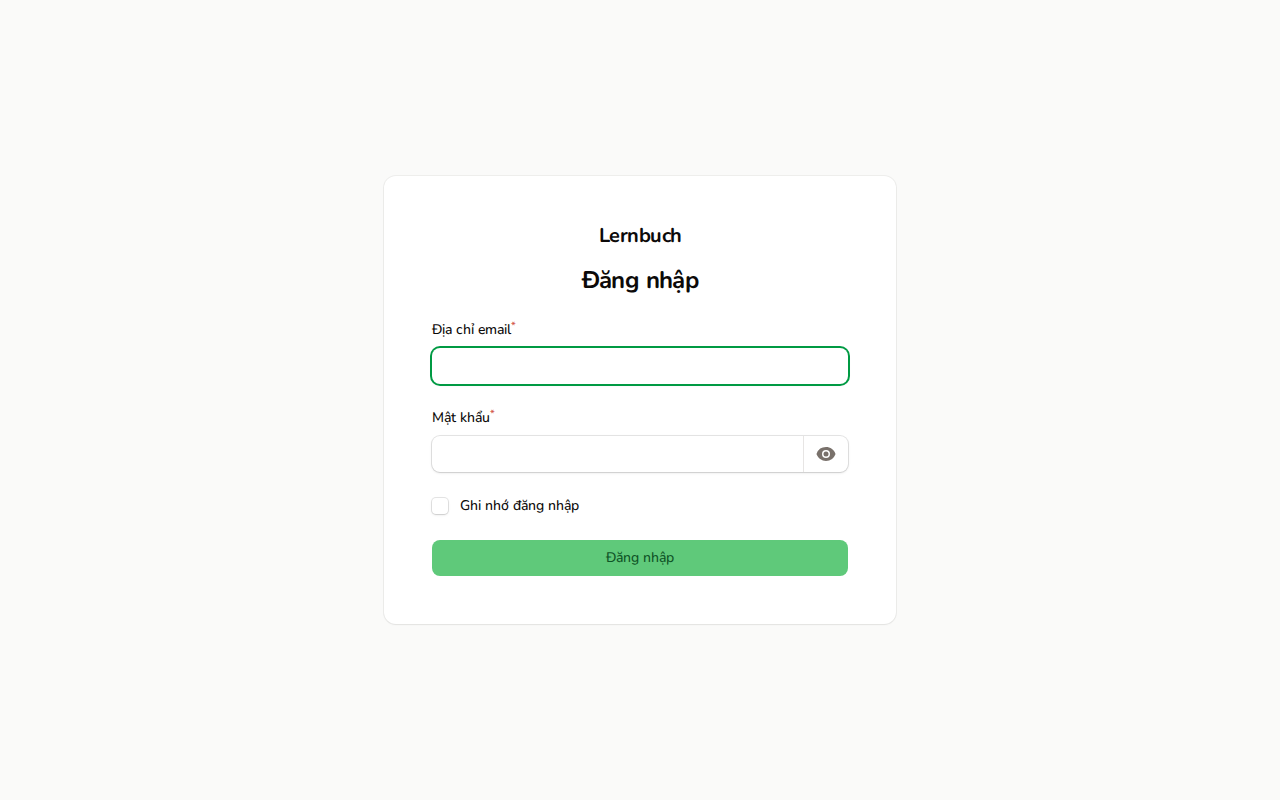
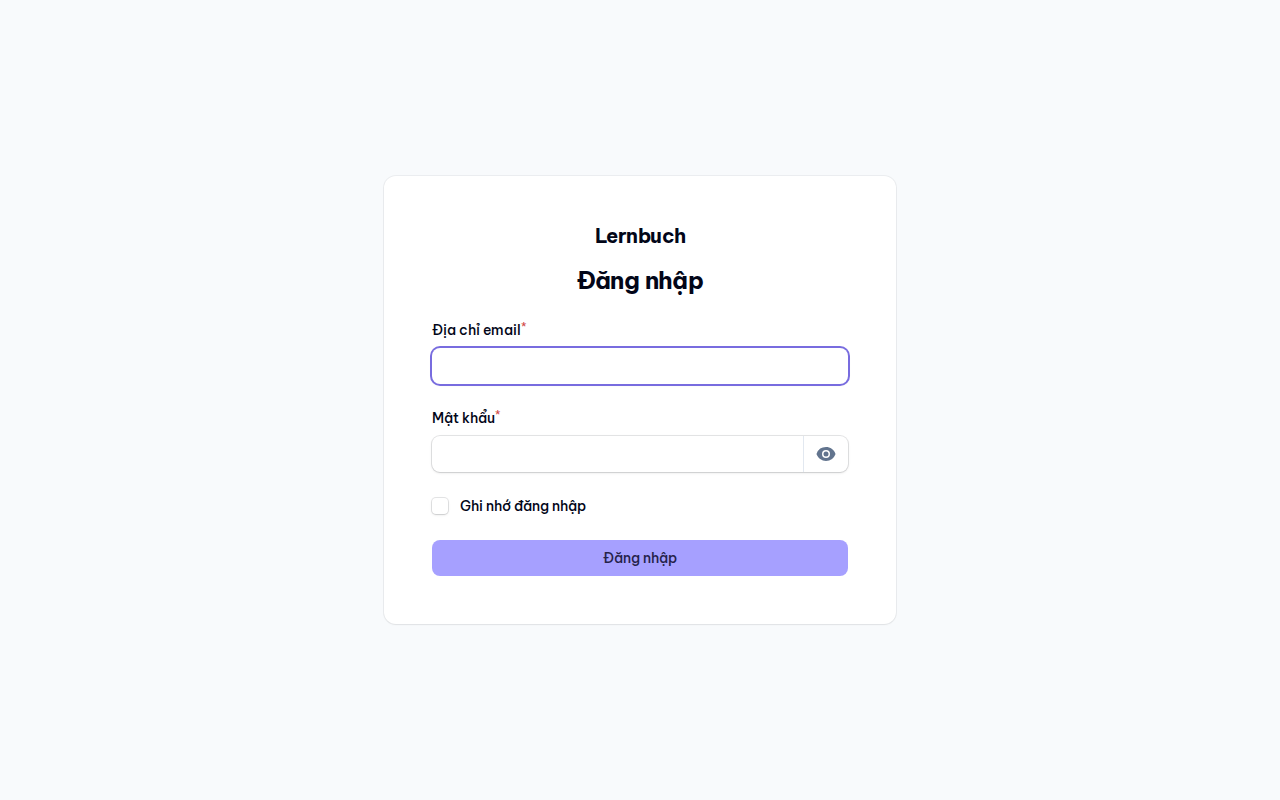
Báo cáo G0 cập nhật sau khi deploy: 14 đạt, 1 đạt một phần, 1 chưa chạy
- docs/tu-kiem-g0.json chấm lại từ log thật: mục 8, 9 (thử hỏng cố ý), 13 (9/10 nhịp trên alwaysdata), 16 (345 MB = 34% của 1 GB sau 10 lần deploy)
- Còn mục 7 (đăng nhập /admin trên alwaysdata) và mục 10 (chạy workflow rollback) chờ bạn
- Ảnh trang chào, trang đăng nhập quản trị theo giao diện mới
- lay_runs.py thử lại khi gh lỗi tạm (kèm test)

Claude-Session: https://claude.ai/code/session_01MLsQeYrmmLGMqsTDmbSgby

diff --git a/tools/tu-kiem/test_lay_runs.py b/tools/tu-kiem/test_lay_runs.py
@@ -1,0 +1,63 @@
+"""Test lay_runs.py với gh giả: lỗi tạm thì thử lại, lỗi mãi thì báo rõ, ghi đúng dạng JSON cho tu_kiem.py.
+
+Chạy: python3 -m unittest tools/tu-kiem/test_lay_runs.py
+"""
+import contextlib
+import io
+import json
+import subprocess
+import sys
+import tempfile
+import unittest
+from pathlib import Path
+from unittest import mock
+
+sys.path.insert(0, str(Path(__file__).parent))
+import lay_runs  # noqa: E402
+
+
+def done(code, out='', err=''):
+    return subprocess.CompletedProcess(['gh'], code, out, err)
+
+
+class LayRunsTest(unittest.TestCase):
+    def test_gh_loi_tam_thi_thu_lai(self):
+        with mock.patch.object(lay_runs.subprocess, 'run', side_effect=[done(1, err='HTTP 502'), done(1, err='HTTP 502'), done(0, '{"jobs": []}')]) as run, \
+                mock.patch.object(lay_runs.time, 'sleep') as sleep:
+            self.assertEqual(lay_runs.gh_json(['run', 'view', '1', '--json', 'jobs']), {'jobs': []})
+        self.assertEqual(run.call_count, 3)
+        self.assertEqual(sleep.call_count, 2)
+
+    def test_gh_loi_mai_thi_bao_ro(self):
+        with mock.patch.object(lay_runs.subprocess, 'run', return_value=done(1, err='HTTP 404: Not Found')), \
+                mock.patch.object(lay_runs.time, 'sleep'):
+            with self.assertRaises(RuntimeError) as ctx:
+                lay_runs.gh_json(['run', 'view', '9', '--json', 'jobs'])
+        self.assertIn('lỗi sau 3 lần thử', str(ctx.exception))
+        self.assertIn('HTTP 404', str(ctx.exception))
+
+    def test_ghi_json_bo_qua_lan_dang_chay(self):
+        runs = [
+            {'databaseId': 2, 'workflowName': 'ci', 'headBranch': 'main', 'headSha': 'b' * 40, 'displayTitle': 'đang chạy',
+             'event': 'push', 'status': 'in_progress', 'conclusion': '', 'createdAt': '2026-11-27T01:00:00Z'},
+            {'databaseId': 1, 'workflowName': 'ci', 'headBranch': 'main', 'headSha': 'a' * 40, 'displayTitle': 'xong',
+             'event': 'push', 'status': 'completed', 'conclusion': 'success', 'createdAt': '2026-11-27T00:00:00Z'},
+        ]
+        jobs = {'jobs': [{'name': 'deploy lên lernbuch.alwaysdata.net', 'conclusion': 'success',
+                          'startedAt': '2026-11-27T00:01:00Z', 'completedAt': '2026-11-27T00:03:00Z'}]}
+
+        def fake(args, tries=3):
+            return runs if args[:2] == ['run', 'list'] else jobs
+
+        with tempfile.TemporaryDirectory() as d, mock.patch.object(lay_runs, 'gh_json', side_effect=fake), \
+                contextlib.redirect_stderr(io.StringIO()):
+            out = Path(d, 'runs.json')
+            lay_runs.main(['--out', str(out)])
+            data = json.loads(out.read_text(encoding='utf-8'))
+        self.assertEqual([r['id'] for r in data], [1])
+        self.assertEqual(data[0]['jobs'][0], {'name': 'deploy lên lernbuch.alwaysdata.net', 'conclusion': 'success',
+                                              'started': '2026-11-27T00:01:00Z', 'completed': '2026-11-27T00:03:00Z'})
+
+
+if __name__ == '__main__':
+    unittest.main()

diff --git a/tools/tu-kiem/lay_runs.py b/tools/tu-kiem/lay_runs.py
@@ -7,13 +7,20 @@ import argparse
 import json
 import subprocess
 import sys
+import time
 
 FIELDS = 'databaseId,workflowName,headBranch,headSha,displayTitle,event,status,conclusion,createdAt'
 
 
-def gh_json(args):
-    out = subprocess.run(['gh', *args], check=True, capture_output=True, text=True).stdout
-    return json.loads(out)
+def gh_json(args, tries=3):
+    """Gọi gh, lỗi tạm (mạng, giới hạn API) thì thử lại vài lần trước khi dừng."""
+    for i in range(tries):
+        r = subprocess.run(['gh', *args], capture_output=True, text=True)
+        if r.returncode == 0:
+            return json.loads(r.stdout)
+        if i < tries - 1:
+            time.sleep(2 * (i + 1))
+    raise RuntimeError(f'gh {" ".join(args)} lỗi sau {tries} lần thử: {r.stderr.strip()[:300]}')
 
 
 def main(argv=None):

diff --git a/docs/bao-cao-g0.md b/docs/bao-cao-g0.md
@@ -1,12 +1,12 @@
 # Báo cáo G0: Nền móng (Lernbuch Online)
 
-Ngày 26/11/2026. Kết quả chi tiết từng mục: `docs/tu-kiem-g0.json` (chấm lại bằng `tools/tu-kiem/tu_kiem.py`, cách chạy trong README).
+Ngày 26/11/2026, cập nhật 27/11/2026 sau khi deploy và thử hỏng cố ý trên alwaysdata. Kết quả chi tiết từng mục: `docs/tu-kiem-g0.json` (chấm lại bằng `tools/tu-kiem/tu_kiem.py`, cách chạy trong README). Công cụ đọc log CI và log máy chủ của từng lần deploy, quay lại trong nhánh `ci-results`; phần đo tay trên máy chủ ghi ở `docs/tu-kiem-g0-tay.json`.
 
 ## Tóm tắt
 
-- Xong mọi phần làm được mà không cần tài khoản alwaysdata: repo, CI, 91 bảng thành migration, chạy trên Windows bằng `setup\*.bat`, PRODUCT.md và DESIGN.md bản 1, 4 màn hình app học chạy được với dữ liệu mẫu.
-- Tự kiểm 16 mục: **10 đạt, 2 đạt một phần, 4 chưa chạy, 0 hỏng**. Bốn mục chưa chạy (7–10) và phần còn lại của mục 13, 16 đều chờ bật deploy lên alwaysdata.
-- Lần chạy CI cuối trên code này: php 15/15 bước (32 test Pest), web 7/7 bước (103 test Vitest, 60 test Playwright), nightly đạt trên MariaDB 10.11, 11.4, 11.8 và MySQL 8.4, 9.7, workflow windows đạt.
+- Xong: repo, CI, 91 bảng thành migration, chạy trên Windows bằng `setup\*.bat`, PRODUCT.md, DESIGN.md, 4 màn hình app học chạy được với dữ liệu mẫu, deploy tự động lên https://lernbuch.alwaysdata.net (tự dừng khi migration hỏng, tự quay lại khi bản mới lỗi).
+- Tự kiểm 16 mục: **14 đạt, 1 đạt một phần, 1 chưa chạy, 0 hỏng**. Còn hai việc cần bạn: đăng nhập `/admin` trên alwaysdata (mục 7) và chạy workflow rollback (mục 10).
+- Lần chạy CI cuối (commit `e33c96d`): php 16/16 bước (37 test Pest), web 8/8 bước (101 test Vitest, 60 test Playwright), deploy đạt. Nightly đạt trên MariaDB 10.11, 11.4, 11.8 và MySQL 8.4, 9.7; workflow windows đạt.
 
 ## 16 mục tự kiểm
 
@@ -17,41 +17,48 @@ Ngày 26/11/2026. Kết quả chi tiết từng mục: `docs/tu-kiem-g0.json` (c
 | 3 | quy ước LoWo | đạt | không khoá ngoại, thời gian số nguyên; test thêm cố ý khoá ngoại thì bị bắt |
 | 4 | seeder chạy lại | đạt | hai lần cùng số dòng: 5 gói, 40 quyền lợi, 10 prompt |
 | 5 | kiểm thử database cũ | đạt | `test_schema.py`: 16/16 kiểm tra cấu trúc, 22/22 tình huống, 91 bảng |
-| 6 | CI chặn lỗi | đạt | lần đẩy test cố ý hỏng (nhánh `work/ci-red`): job php đỏ, deploy không chạy |
-| 7 | deploy thật | chưa chạy | chờ bật deploy |
-| 8 | migration lỗi khi deploy | chưa chạy | chờ bật deploy, rồi đẩy một migration cố ý hỏng |
-| 9 | bản mới lỗi sau khi đổi | chưa chạy | chờ bật deploy, rồi đẩy bản cố ý làm `/up` lỗi |
-| 10 | quay lại bằng tay | chưa chạy | workflow `rollback` đã có; chạy sau lần deploy đầu |
+| 6 | CI chặn lỗi | đạt | lần đẩy test cố ý hỏng (nhánh `work/ci-red`): job php đỏ, deploy không chạy; trên `main` cũng đã gặp thật (run 45714047969, Pint đỏ): deploy không chạy |
+| 7 | deploy thật | đạt một phần | 10 lần deploy đạt; lần cuối (run 45873504248) trang chào hiện đúng bản mới, `/up` trả 200. Còn đăng nhập `/admin` trên alwaysdata |
+| 8 | migration lỗi khi deploy | đạt | run 45711622826: migration cố ý hỏng, deploy dừng ở bước Migration, giữ bản `8d88488`; lần deploy sau thấy vẫn chạy `8d88488`, `/up` 200, bản dở dang đã bị xoá |
+| 9 | bản mới lỗi sau khi đổi | đạt | run 45714460059: bản `9602d2f` cố ý làm `/up` lỗi (app trả 500 ngay trên máy chủ), workflow tự quay về `ca55655`, sau đó web chạy `ca55655`, `/up` 200. Lúc thử, web còn chạy bản cũ do site chưa có 2 dòng php.ini, nên lỗi được bắt bằng `/up` gọi ngay trên máy chủ |
+| 10 | quay lại bằng tay | chưa chạy | workflow `rollback` sẵn sàng, nay chờ trang chủ báo đúng bản vừa quay về rồi mới kiểm `/up`; cần bạn bấm chạy |
 | 11 | bảo mật cơ bản | đạt | trang lỗi 500 chung (không lộ nội dung lỗi, đường dẫn); `/.env`, `/storage/logs` trả 404; `/admin` chưa đăng nhập về trang đăng nhập; sai mật khẩu 5 lần thì bị chặn, kể cả lần sau đúng |
 | 12 | chữ có dấu qua database | đạt | ghi rồi đọc "Brötchen", "Straße", "tiếng Việt" giữ nguyên; kết nối sai bảng mã thì test bắt được |
-| 13 | lịch và hàng đợi | đạt một phần | CI chạy lịch và hàng đợi thật (bảng `jobs`) qua 10 phút mô phỏng: đủ 10 nhịp; job thử chạy xong; job cố ý lỗi vào `failed_jobs` sau đúng 3 lần thử; thiếu nhịp thì lệnh kiểm báo lỗi. Còn chạy thật 10 phút trên alwaysdata |
+| 13 | lịch và hàng đợi | đạt | CI: 10 phút mô phỏng đủ 10 nhịp, job thử chạy xong, job cố ý lỗi vào `failed_jobs` sau đúng 3 lần thử, thiếu nhịp thì lệnh kiểm báo lỗi. Trên alwaysdata: 9/10 nhịp trước lần deploy cuối (mỗi lần deploy giờ đều ghi số nhịp); `app:thu-hang-doi` bạn chạy qua SSH: job thử xong, job lỗi vào `failed_jobs` sau 3 lần thử |
 | 14 | font và chữ | đạt | trang kiểm chữ đúng font ở máy tính và điện thoại; mất cố ý file font thì test báo, chữ vẫn đọc được |
-| 15 | tương phản màu | đạt | 70/70 cặp màu đạt WCAG AA ở giao diện sáng và tối; 4 màn hình app học đạt axe WCAG 2.2 AA |
-| 16 | dung lượng và phút CI | đạt một phần | ước 782 phút CI mỗi tháng (dưới 1.500). Còn đo dung lượng alwaysdata sau 5 lần deploy |
+| 15 | tương phản màu | đạt | 94/94 cặp màu đạt WCAG AA ở giao diện sáng và tối (bảng màu mới); 4 màn hình app học đạt axe WCAG 2.2 AA |
+| 16 | dung lượng và phút CI | đạt | sau 10 lần deploy: cả thư mục nhà 339 MB (thư mục app 337 MB, gồm 3 bản phát hành), database 6,2 MB, tổng 345 MB = 34% của 1 GB. Ước 1.006 phút CI mỗi tháng (dưới 1.500) |
 
-Mục 16 lúc đầu vượt mức: workflow windows chạy mỗi lần đẩy code thì ước khoảng 1.550 phút mỗi tháng (máy Windows tính gấp đôi). Nay workflow này chỉ chạy khi đổi `setup\`, gói thư viện, migration, seeder và mỗi tuần một lần.
+Mục 16 lúc đầu vượt mức: workflow windows chạy mỗi lần đẩy code thì ước khoảng 1.550 phút mỗi tháng (máy Windows tính gấp đôi). Nay workflow này chỉ chạy khi đổi `setup\`, gói thư viện, migration, seeder và mỗi tuần một lần. Về đĩa: mỗi bản phát hành khoảng 107 MB. Lúc deploy, trước bước dọn có thể có 5 bản cùng lúc (3 bản gần nhất, bản tốt gần nhất, bản mới), khoảng 550 MB thư mục app, vẫn dưới 1 GB. Audio từ G1 không để trên alwaysdata nếu chọn kho kiểu S3.
+
+Trong lúc thử mục 8, 9 tìm ra và đã sửa:
+
+- Sau khi đổi `current`, web trên alwaysdata còn chạy bản cũ hơn 4 phút (PHP nhớ đường dẫn thật của `current`), nên `/up` 200 của bản cũ làm tưởng bản mới chạy tốt. Workflow nay chờ trang chủ báo đúng tên bản mới rồi mới kiểm `/up`; site thêm 2 dòng php.ini (`docs/huong-dan-alwaysdata.md`) thì web đổi bản ngay.
+- Quay lại có thể chọn nhầm bản hỏng. Bản qua kiểm `/up` nay được đánh dấu; quay lại và dọn bản cũ đều ưu tiên giữ bản tốt gần nhất; deploy lỗi giữa chừng thì xoá bản dở dang.
+- Job cố ý lỗi đếm sai số lần thử khi cache là database (như trên alwaysdata): đã sửa và thêm test.
 
 ## Đã giao
 
 - Repo `DatdatItSn02/lernbuch`, nhánh `main` có CI xanh; README ghi cách chạy, deploy, quay lại.
-- PRODUCT.md bản 1, DESIGN.md gộp theo code (kèm `.impeccable/design.json`), `design/tokens.css` bản 0.2.
+- PRODUCT.md bản 1. Giao diện làm lại sau G0 (26/11) theo hướng "Vở ô li và hộp thẻ": DESIGN.md mới (bản đầy đủ ở `.impeccable/design-full.md`), `design/tokens.css` bản 0.3, font Be Vietnam Pro.
+- Deploy tự động lên alwaysdata: mỗi lần đẩy vào `main` mà CI xanh thì đóng gói, migrate trên bản mới, đổi bản, kiểm trang chủ và `/up`, lỗi thì tự quay lại. Log từng lần (bản đang chạy, `/up`, số nhịp, dung lượng) ở nhánh `ci-results`.
 - 4 màn hình app học chạy được với dữ liệu mẫu: Hôm nay, Học, Thẻ từ, Trang chủ đề; thêm Cài đặt, danh sách chủ đề, trang 404. Mở ở `/app/hom-nay` sau khi chạy `setup\chay-web.bat`.
 - Chạy trên Windows: `docs/huong-dan-windows.md` (bộ `setup\*.bat` giống LoWo thay cho Herd như kế hoạch ban đầu, theo yêu cầu của bạn).
-- Ảnh trang chào và trang đăng nhập quản trị ở cỡ máy tính và điện thoại: `docs/anh/`. Ảnh 4 màn hình app học có trong thư mục dự án trên máy.
+- Ảnh trang chào và trang đăng nhập quản trị ở cỡ máy tính và điện thoại (giao diện mới, chụp trong CI): `docs/anh/`. Ảnh 4 màn hình app học có trong thư mục dự án trên máy.
 - File zip mã nguồn `lernbuch-g0.zip` và bản sao tài liệu trong `F:\CongViec\lernbuch`.
 
 ## Chưa làm, cần bạn
 
-1. **Bật deploy lên alwaysdata** theo `docs/huong-dan-alwaysdata.md` (khoảng 15 phút): PHP 8.4, site, database `lernbuch_app`, khoá SSH, hai Secrets `ALWAYSDATA_SSH_KEY` và `DB_PASSWORD`, rồi biến `DEPLOY_ENABLED=true`. Xong thì báo mình chạy mục 7–10, phần còn lại của mục 13 và 16.
-2. **Sau lần deploy đầu**: tác vụ định kỳ `schedule:run`, dịch vụ `queue:work`, tạo tài khoản quản trị (mục 4 của hướng dẫn alwaysdata).
-3. **Trước G1**: đánh dấu nguồn nội dung nào bạn có quyền dùng (8 nguồn đang ghi `unknown`); chốt tên thương mại, giá Premium và giới hạn gói Free, cổng thanh toán làm đầu tiên (đang ghi "Chưa chốt" trong PRODUCT.md).
+1. **Mục 7, đăng nhập `/admin`.** SSH vào alwaysdata, chạy `cd ~/lernbuch/current && php artisan app:create-admin`, nhập email và mật khẩu (ít nhất 12 ký tự), rồi đăng nhập ở https://lernbuch.alwaysdata.net/admin. Báo mình được hay không để ghi vào `docs/tu-kiem-g0-tay.json`.
+2. **Mục 10, quay lại bằng tay.** GitHub → Actions → rollback → Run workflow. Đạt khi log ghi `✔ Web chạy bản trước (…), /up trả 200`. Xong thì Actions → ci → Run workflow trên `main` để về bản mới nhất. Mình đọc log này từ `ci-results`, không cần bạn chép lại.
+3. **Trước G1**: trả lời 6 câu hỏi cuối kế hoạch G1 và chọn quyền dùng cho từng nguồn nội dung ngay trong doc kế hoạch; chốt tên thương mại, giá Premium và giới hạn gói Free, cổng thanh toán làm đầu tiên (đang ghi "Chưa chốt" trong PRODUCT.md).
 
 ## Cổng nghiệm thu G0
 
 | Việc bạn thử | Trạng thái |
 | --- | --- |
-| Mở trang alwaysdata, xem trang chào trên máy tính và điện thoại | chờ deploy; trên máy bạn đã chạy được |
-| Tạo tài khoản quản trị bằng `php artisan app:create-admin`, đăng nhập `/admin` | trên máy: `setup\tao-admin.bat`; trên alwaysdata chờ deploy |
+| Mở trang alwaysdata, xem trang chào trên máy tính và điện thoại | sẵn sàng: https://lernbuch.alwaysdata.net |
+| Tạo tài khoản quản trị bằng `php artisan app:create-admin`, đăng nhập `/admin` | trên máy: `setup\tao-admin.bat`; trên alwaysdata chờ bạn (mục 7) |
 | Tab Actions: ci và nightly đều xanh | đã xanh |
-| Chạy workflow rollback | chờ deploy |
+| Chạy workflow rollback | chờ bạn (mục 10) |
 | Đọc báo cáo, PRODUCT.md, DESIGN.md, 4 màn hình | sẵn sàng |
